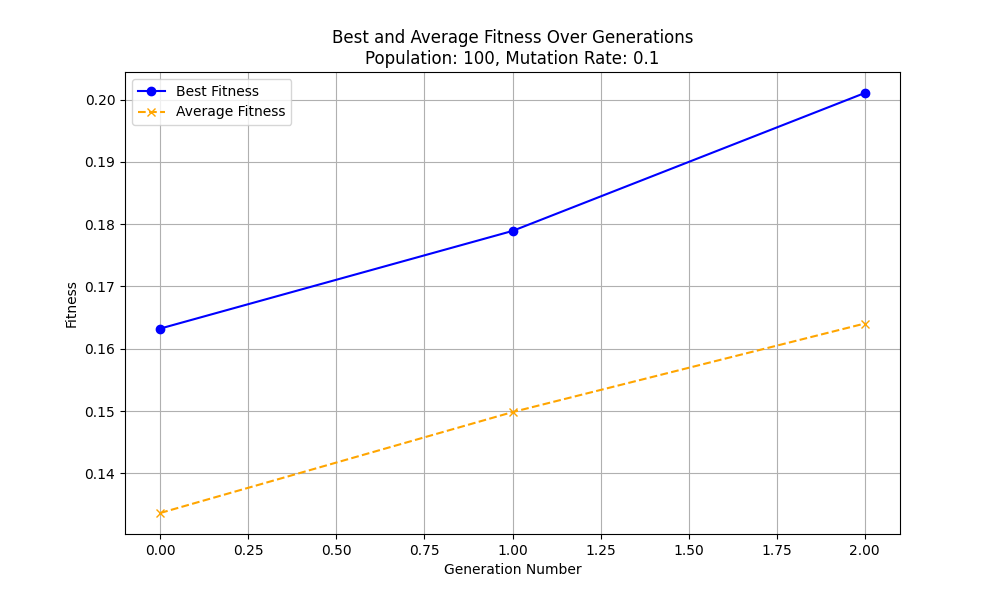
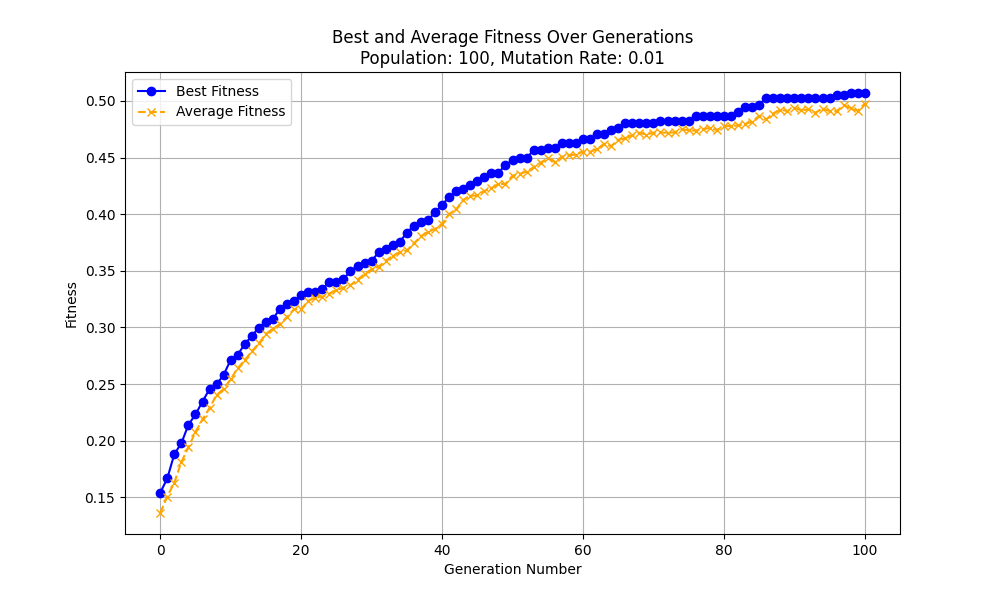
Final

diff --git a/ATG/templates/base.html b/ATG/templates/base.html
@@ -66,9 +66,9 @@
             <li class="{% active request instructorAdd %}">
               <a href="{{ instructorAdd }}">Instructor</a>
             </li>
-            <li class="{% active request roomAdd %}">
+            {% comment %} <li class="{% active request roomAdd %}">
               <a href="{{ roomAdd }}">Room</a>
-            </li>
+            </li> {% endcomment %}
             <li class="{% active request meetingTimeAdd %}">
               <a href="{{ meetingTimeAdd }}">Meeting time</a>
             </li>

diff --git a/ATG/uniform_data.html b/ATG/uniform_data.html
@@ -14,11 +14,11 @@
     <tr>
       <td>100</td>
       <td>100</td>
-      <td>0.1</td>
-      <td>0.201</td>
-      <td>0.164</td>
+      <td>0.01</td>
+      <td>0.507</td>
+      <td>0.498</td>
       <td>Uniform Crossover</td>
-      <td>22.567</td>
+      <td>731.339</td>
     </tr>
   </tbody>
 </table>

diff --git a/ATG/rough2.py b/ATG/rough2.py
@@ -3,13 +3,12 @@ import matplotlib.pyplot as plt
 
 # Create the DataFrame
 data = {
-    "Generation": [100,100,100, 100, 100, 100],
-    "Population Size": [50,50,200, 100, 100, 200],
-    "Mutation Rate": [0.1,0.01,0.1, 0.01, 0.1, 0.01],
-    "Best Fitness": [0.3, 0.395,0.388,0.484, 0.343, 0.497],
-    "Average Fitness": [0.273, 0.39,0.319,0.475, 0.294, 0.485],
-    "Cross-Over": ["Uniform Crossover"] * 6,
-    "Execution-Time(s)": [219.14,231.97,1910.086, 792.978, 796.321, 1913.027],
+    "Generation": [899, 100],
+    "Population Size": [100, 200],
+    # "Mutation Rate": [0.01,0.01],
+    "Best Fitness": [26.78, 0.497],
+    # "Average Fitness": [0.5,0.115],
+    # "Cross-over Method": ["Uniform","Order"],
 }
 
 df = pd.DataFrame(data)
@@ -39,9 +38,9 @@ for (row, col), cell in table.get_celld().items():
     if row == 0:  # Header row
         cell.set_text_props(weight="bold", color="white")  # Bold and white text
         cell.set_facecolor("#4CAF50")  # Green background for header
-    elif row == highest_fitness_row + 1:  # Highlight the row with the highest "Best Fitness"
-        cell.set_facecolor("#FFEB3B")  # Yellow background for the highlighted row
+    # elif row == highest_fitness_row + 1:  # Highlight the row with the highest "Best Fitness"
+    #     cell.set_facecolor("#FFEB3B")  # Yellow background for the highlighted row
 
 # Save the table as a PNG file
-plt.savefig("table.png", bbox_inches="tight", dpi=300)
+plt.savefig("compare.png", bbox_inches="tight", dpi=300)
 print("Table saved as 'table.png'")

diff --git a/ATG/SchedulerApp/views.py b/ATG/SchedulerApp/views.py
@@ -20,7 +20,7 @@ import math
 POPULATION_SIZE = 100
 NUMB_OF_ELITE_SCHEDULES = 30
 TOURNAMENT_SELECTION_SIZE = 20
-MUTATION_RATE = 0.1
+MUTATION_RATE = 0.01
 VARS = {'generationNum': 0,
         'terminateGens': False}
 
@@ -692,7 +692,7 @@ def timetable(request):
     schedule = population.getSchedules()[0]
     start_time = time.time()  # Start time tracking
 
-    while (schedule.getFitness() != 1.0) and (VARS['generationNum'] <= 2):
+    while (schedule.getFitness() != 1.0) and (VARS['generationNum'] <= 100):
         if VARS['terminateGens']:
             return HttpResponse('')
 
